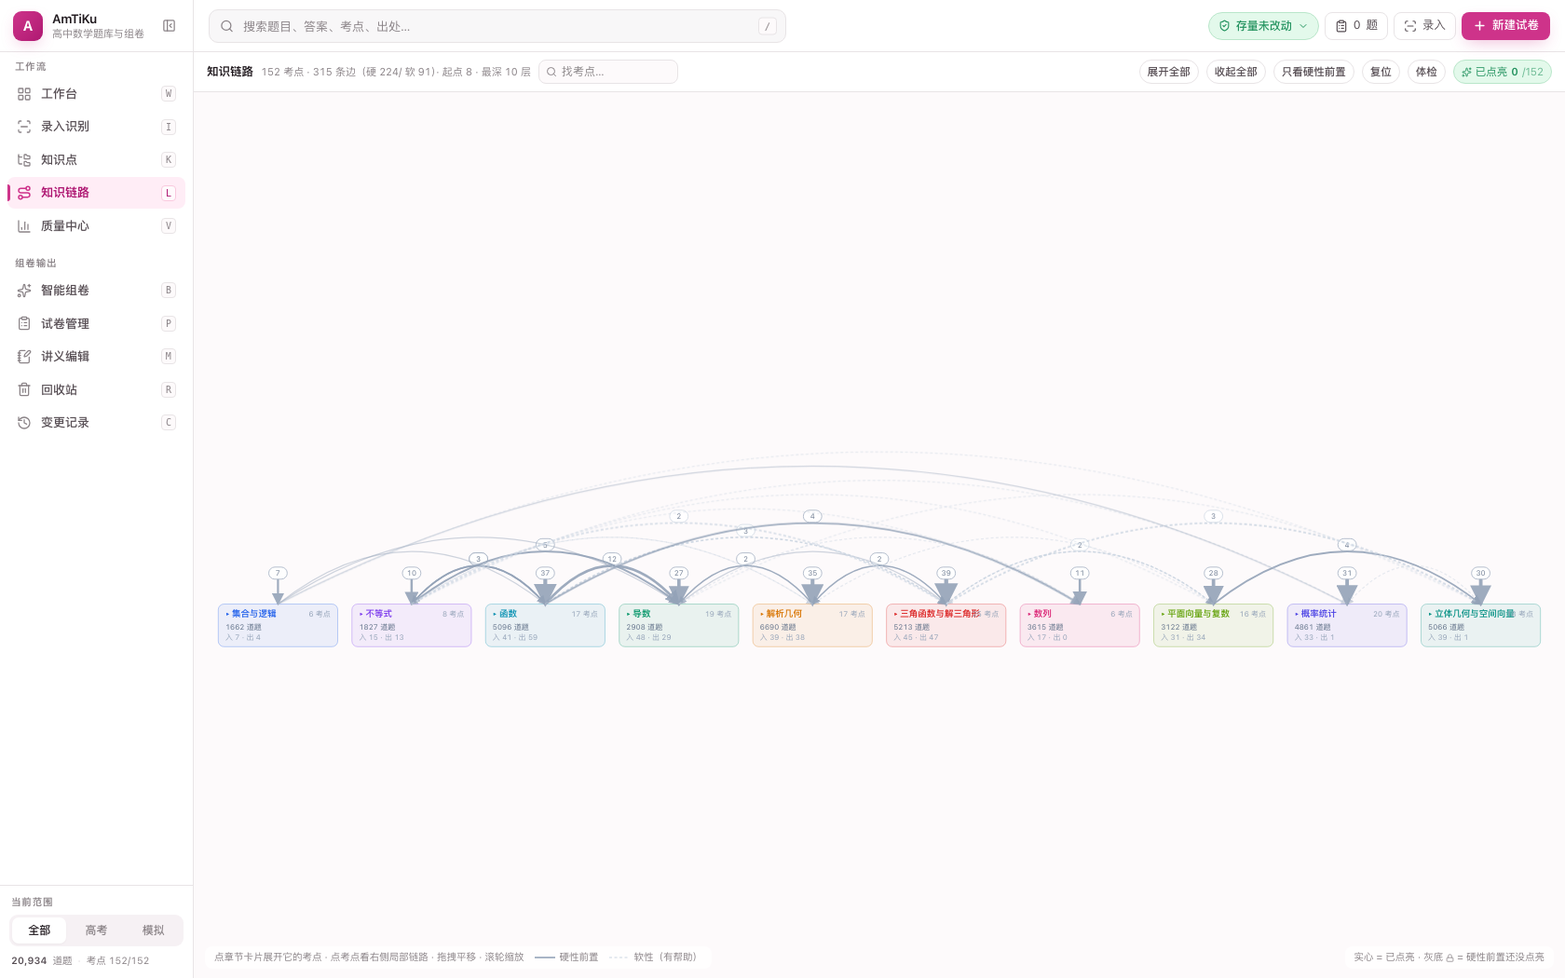
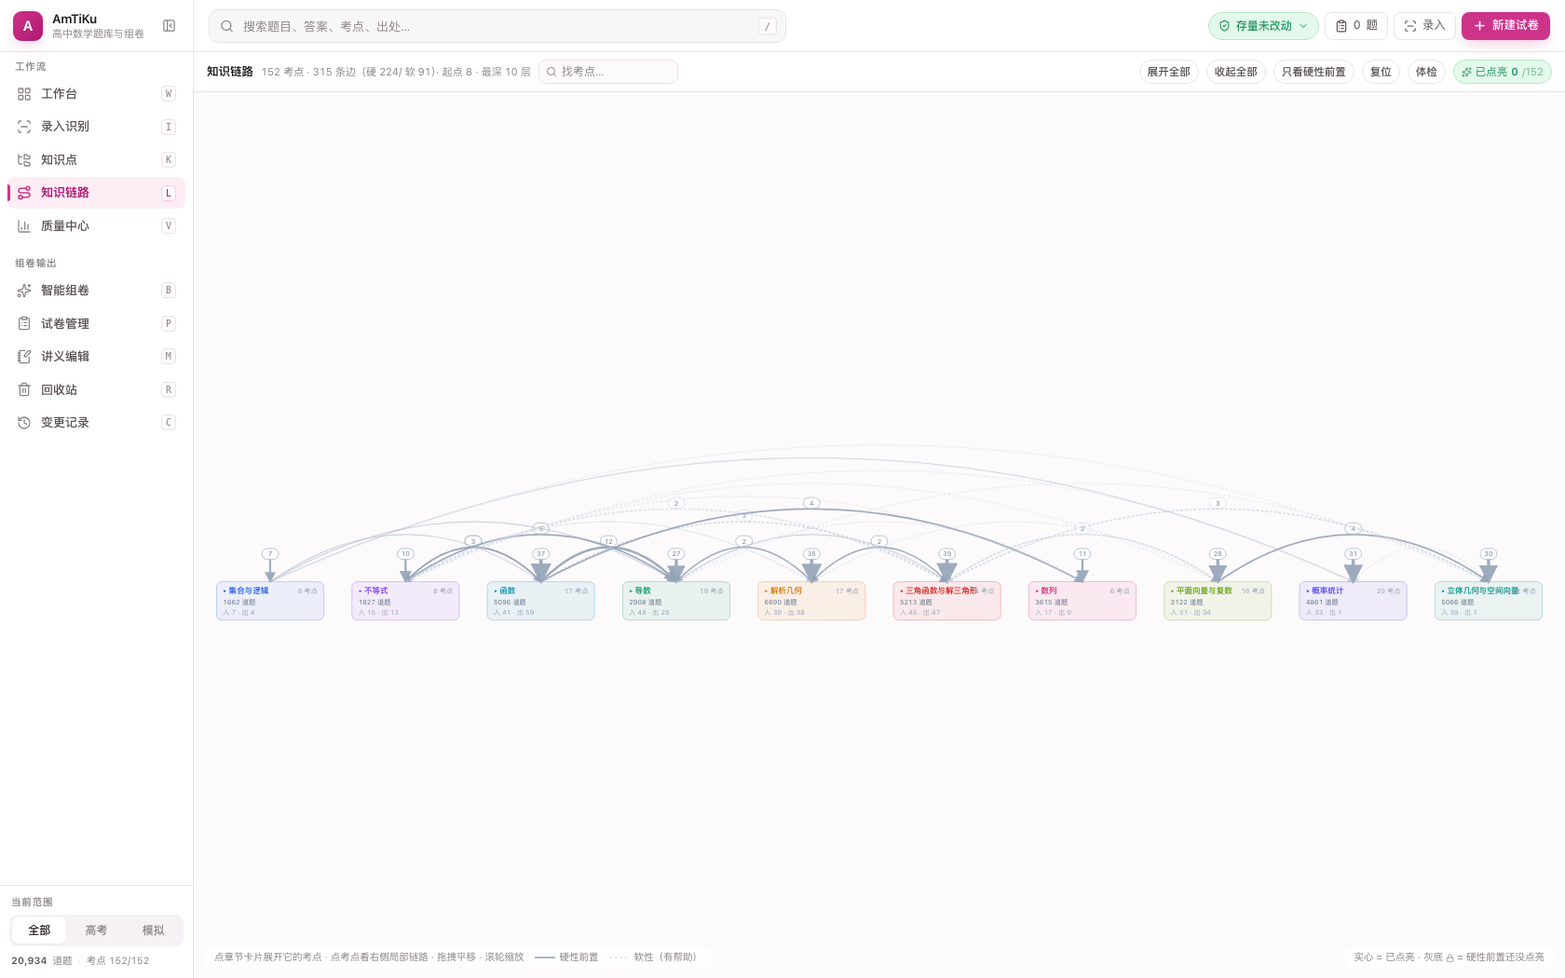
知识链路：补上分层图的三件标准件，穿模归零
用户看了"全部展开"的样子说「穿模了，继续调研下技术」。问题属实：我原来只做了分层图
最原始的一步（按深度分层 + 库内顺序排），1990 年代之后的三件标准件一件没做。
参考 Sugiyama 高效实现 / dagre / ELK Layered / d3-dag。

一、三件标准件
* 层内排序（交叉最小化）：**深度仍是主序**（"纵向=由浅入深"是这张图的读图约定，
  不能被优化掉），同一深度带内改按**邻居位置中位数**排，来回扫 6 轮。
  原来用库内顺序 = 等于不做交叉最小化。
* 长边走正交走廊 + 底部总线：跨 2 列以上的边不再斜着走——横到本列旁的走廊 →
  下到底部总线（5 条车道）→ 横过去 → 上来，圆角转弯。斜线会从中间各列的节点
  身上碾过去，这就是穿模。
* 边的分级显示：① 章节弧永远画（骨架）② 同章内部展开就画 ③ 跨章节点级边
  默认不画，悬停/选中时才把该考点那些单独画出来。315 条一起画怎么排都是毛线球。

二、顺带修掉一个真 bug
同列的边从节点**左边**起笔却向**右**鼓，弧线横穿自己的节点框。根因是把"安全侧"
判断（right = p2.col > p1.col）套到了同列情形上：同列时取左边，鼓包方向却仍是右边。

三、穿模现在可测量（occlude_check.mjs + probe.js）
沿每条边采样 24 点，数它扎进别的节点框/章节卡片的次数：
  目录 851 采样 → 0；全部展开（152 考点/292 条线）6716 采样 → 0；
  选中链路（306 条线）7038 采样 → 0；节点框互相重叠 0。

四、写探针踩的两个坑（都产生过假数据，记在文档里）
* getBBox() 是**局部坐标**（每个节点框都是 0,0,48,18），拿它比世界坐标路径点会得出
  "重叠 11476 处"（正好 C(152,2)）。必须过 getCTM() 换算到同一空间。
* 边从自己的节点起笔时起点正好落在框边界，`x > r.x` 判假 → 把源节点算成被扎。
差点据此去改本来没问题的走线。探针代码现在单独放 probe.js（同一转义坑踩了三次）。

验证：amti.py accept 四层全绿 · 接口 18/18 · 讲义 18/18 · tsc --noUnusedLocals +
build 通过 · browser_check.mjs 按当前设计重写后全过（目录 0 节点 → 展开 152 节点/
292 线 → 选 4.3.1 出局部链路与筛题 → 点亮入 localStorage → 只看硬性 312→236 →
体检 ✓ → 10 个卡片都在画布内 → 控制台零报错）。

Changed region(s): [[0.1238, 0.5181, 0.9905, 0.6705], [0.7429, 0.5181, 0.7738, 0.5486]]

diff --git a/web/src/app/Chain.tsx b/web/src/app/Chain.tsx
@@ -41,10 +41,15 @@ const TOPIC_COLORS = ['#2563eb', '#7c3aed', '#0891b2', '#059669', '#d97706',
  * 默认**只画 10 个章节卡片**，点开的章节才在它下面长出考点——这是「探索」的核心：
  * 152 个考点 + 315 条边一次全铺出来必然是毛线球（用户截图里那团就是），
  * 而一屏 10 个大节点永远清爽，关系靠「点开一层」逐级展开。 */
-const CHAP_W = 168, CHAP_W_OPEN = 186, GAP = 20, PAD = 24
-const ROW = 24, NODE_W = 48, NODE_H = 18, NODE_TOP = 92, HEAD = 50
-/** 章节卡片的高度；卡片排在下方，弧线往上画（弧图布局） */
+const CHAP_W = 168, CHAP_W_OPEN = 186, GAP = 44, PAD = 24
+/** 底部总线：跨多列的长边走它，而不是斜着从别的节点身上碾过去 */
+const BUS_GAP = 34
+const ROW = 24, NODE_W = 48, NODE_H = 18, HEAD = 50
+/** 章节卡片的高度；卡片排在一条基线上，**关系弧画在基线上方、展开的考点长在下方**。
+ *  早先把展开的列从 y=92 往下排、卡片却钉在 y=300，列直接穿过卡片（用户说的"穿模"）。 */
 const CARD_H = 66, BASELINE = 300
+/** 深度分层之间留一点空隙：同一深度是一"带"，带与带之间断开，深度才读得出来 */
+const BAND_GAP = 9
 
 type Pos = { x: number; y: number; col: number }
 type View = { k: number; tx: number; ty: number }
@@ -85,7 +90,7 @@ export function Chain({ onPickPoint }: { onPickPoint: (pid: string, title: strin
   /** 展开的章节。默认空 = 只看 10 个大节点。 */
   const [open, setOpen] = useState<Set<string>>(new Set())
 
-  const { chaps, pos, W, H, topicOf } = useMemo(() => {
+  const { chaps, pos, W, H, topicOf, busY } = useMemo(() => {
     const groups: { topic: string; color: string; nodes: GNode[] }[] = []
     for (const n of g?.nodes || []) {
       let c = groups.find((x) => x.topic === n.topic)
@@ -99,28 +104,73 @@ export function Chain({ onPickPoint }: { onPickPoint: (pid: string, title: strin
         .sort((a, b) => a.n.depth - b.n.depth || a.i - b.i).map((x) => x.n)
     }
     const maxRows = Math.max(0, ...groups.filter((c) => open.has(c.topic)).map((c) => c.nodes.length))
-    // 展开的章节要往下长，所以画布高度取「基线 + 最长的一列」和固定值里的较大者
-    const height = Math.max(BASELINE + CARD_H + 40, NODE_TOP + maxRows * ROW + 40)
+    const height = Math.max(BASELINE + CARD_H + 40,
+      BASELINE + CARD_H + 24 + maxRows * ROW + maxRows * BAND_GAP + BUS_GAP + 30)
     let x = PAD
     const chaps = groups.map((c) => {
       const isOpen = open.has(c.topic)
       const w = isOpen ? CHAP_W_OPEN : CHAP_W
       const o = { topic: c.topic, color: c.color, nodes: c.nodes, open: isOpen, x, w,
-        // 卡片统一排在一条基线上，弧线一律往上画 —— 横排节点 + 上方弧线
-        // 是「弧图」的标准形态；早先把卡片竖直居中、弧线高度按条数硬加，
-        // 结果弧线各自冲向天空、互相穿插成一团。
         y: BASELINE, questions: c.nodes.reduce((a, n) => a + n.n, 0) }
       x += w + GAP
       return o
     })
+
+    /* ── 层内排序：交叉最小化（Sugiyama 三件套里的第二件）──
+     *  规则：**深度仍是主序**（"纵向 = 由浅入深"是这张图的读图约定，不能被优化掉），
+     *  同一深度内的先后则用**邻居位置的中位数**决定，来回扫描几轮。
+     *  这一步盯的是「同一深度带里谁上谁下」——原来用知识点库顺序，
+     *  等于没做交叉最小化，边只能互相穿。
+     *  参考：Sugiyama 高效实现（Healy & Nikolov）/ dagre 的 ordering 阶段 / d3-dag 的 decross。 */
+    const idx = new Map<string, number>()
+    for (const c of chaps) for (const n of c.nodes) idx.set(n.id, chaps.indexOf(c))
+    const adj = new Map<string, string[]>()
+    for (const e of (g?.edges || [])) {
+      if (!adj.has(e.pre)) adj.set(e.pre, [])
+      if (!adj.has(e.post)) adj.set(e.post, [])
+      adj.get(e.pre)!.push(e.post)
+      adj.get(e.post)!.push(e.pre)
+    }
+    const rank = new Map<string, number>()          // 节点在它所在列里的序号
+    for (const c of chaps) c.nodes.forEach((n, i) => rank.set(n.id, i))
+    const medianOf = (id: string) => {
+      const ns = (adj.get(id) || []).filter((t) => (idx.get(t) ?? -1) !== idx.get(id))
+      if (!ns.length) return null
+      const v = ns.map((t) => rank.get(t) ?? 0).sort((a, b) => a - b)
+      const m = v.length >> 1
+      return v.length % 2 ? v[m] : (v[m - 1] + v[m]) / 2
+    }
+    for (let sweep = 0; sweep < 6; sweep++) {
+      for (const c of [...chaps].sort((a, b) => sweep % 2 ? b.x - a.x : a.x - b.x)) {
+        c.nodes = c.nodes.map((n, i) => ({ n, i,
+          k: [n.depth, medianOf(n.id) ?? Number.MAX_SAFE_INTEGER, i] as (number | string)[] }))
+          .sort((a, b) => (a.k[0] as number) - (b.k[0] as number)
+            || (a.k[1] as number) - (b.k[1] as number) || (a.i - b.i))
+          .map((o) => o.n)
+        c.nodes.forEach((n, i) => rank.set(n.id, i))
+      }
+    }
+
+    let maxBand = 0
+    for (const c of chaps) maxBand = Math.max(maxBand, new Set(c.nodes.map((n) => n.depth)).size)
     const pos = new Map<string, Pos>()
+    let lowest = 0
     chaps.forEach((c, ci) => {
       if (!c.open) return
-      c.nodes.forEach((n, ri) => pos.set(n.id, { x: c.x + NODE_W / 2 + 8, y: NODE_TOP + ri * ROW, col: ci }))
+      let lastDepth = -1, band = 0
+      c.nodes.forEach((n, ri) => {
+        if (n.depth !== lastDepth) { band += 1; lastDepth = n.depth }
+        const y = BASELINE + CARD_H + 24 + (ri + band) * ROW + band * BAND_GAP
+        lowest = Math.max(lowest, y)
+        pos.set(n.id, { x: c.x + NODE_W / 2 + 8, y, col: ci })
+      })
     })
+    // 底部总线的高度：所有展开列的最底端再往下一点。
+    // 长边全部走这条线，并按边序分 5 条车道错开（同一条线上会互相盖住）。
+    const busY = lowest + BUS_GAP
     const topicOf = new Map<string, string>()
     for (const n of g?.nodes || []) topicOf.set(n.id, n.topic)
-    return { chaps, pos, W: x - GAP + PAD, H: height, topicOf }
+    return { chaps, pos, W: x - GAP + PAD, H: height, topicOf, busY }
   }, [g, open])
 
   const chapOf = useMemo(() => new Map(chaps.map((c) => [c.topic, c])), [chaps])
@@ -131,39 +181,39 @@ export function Chain({ onPickPoint }: { onPickPoint: (pid: string, title: strin
     return hardOnly ? all.filter((e) => e.strength === 'hard') : all
   }, [g, hardOnly])
 
-  /** 关系按「两端是否展开」分三层：
-   *  ① 两端都收起 → **章节级聚合边**（一条弧 + 条数徽标）
-   *  ② 只有一端展开 → 细线连过去 + 卡片旁徽标（看得出"这一章有多少条通向那一章"）
-   *  ③ 两端都展开 → 节点级边（就是原来的画法）
-   *  这样无论展开到哪一层，屏幕上都不会出现一屏乱线。 */
-  const { agg, cross, nodeEdges } = useMemo(() => {
-    const aggM = new Map<string, { a: string; b: string; hard: number; soft: number }>()
-    const cross: { pre: string; post: string; strength: 'hard' | 'soft'; a: string; b: string }[] = []
+  /** 关系数据。渲染策略是**分级显示**（ELK 的 long-edge 策略同理）：
+   *  ① 章节弧：永远画——它是这张图的骨架，也是"这一章和那一章有几条关系"的答案；
+   *  ② 同一章内部的节点级边：展开就画（那是用户点开这一章想看的东西）；
+   *  ③ **跨章的节点级边：默认不画**。它们原来就是"斜着掠过 7 列"的元凶；
+   *     悬停/选中某个考点时，只把它自己的那些边单独画出来。
+   *  结果是：无论展开多少章，屏幕上的线永远是一小把，而不是 315 条。 */
+  const { pairAgg, nodeEdges, crossEdges } = useMemo(() => {
+    const m = new Map<string, { a: string; b: string; hard: number; soft: number }>()
     const nodeEdges: Edge[] = []
+    const crossEdges: (Edge & { a: string; b: string })[] = []
     for (const e of edges) {
       const ta = topicOf.get(e.pre) || '', tb = topicOf.get(e.post) || ''
       const oa = open.has(ta), ob = open.has(tb)
+      const k = ta + '>' + tb
+      const cur = m.get(k) || { a: ta, b: tb, hard: 0, soft: 0 }
+      cur[e.strength === 'hard' ? 'hard' : 'soft'] += 1
+      m.set(k, cur)
       if (oa && ob) nodeEdges.push(e)
-      else if (!oa && !ob) {
-        const k = ta + '>' + tb
-        const cur = aggM.get(k) || { a: ta, b: tb, hard: 0, soft: 0 }
-        cur[e.strength === 'hard' ? 'hard' : 'soft'] += 1
-        aggM.set(k, cur)
-      } else cross.push({ pre: e.pre, post: e.post, strength: e.strength, a: ta, b: tb })
+      else if (oa || ob) crossEdges.push({ ...e, a: ta, b: tb })
     }
-    return { agg: [...aggM.values()], cross, nodeEdges }
+    return { pairAgg: [...m.values()], nodeEdges, crossEdges }
   }, [edges, open, topicOf])
 
   /** 章节级的入/出条数：收起的卡片上直接写出来，不用点开就知道谁依赖谁 */
   const chapDeg = useMemo(() => {
     const m = new Map<string, { i: number; o: number }>()
-    for (const a of agg) {
+    for (const a of pairAgg) {
       const A = m.get(a.a) || { i: 0, o: 0 }, B = m.get(a.b) || { i: 0, o: 0 }
       A.o += a.hard + a.soft; B.i += a.hard + a.soft
       m.set(a.a, A); m.set(a.b, B)
     }
     return m
-  }, [agg])
+  }, [pairAgg])
 
   /** 选中考点的**整条链路**（全部先修 + 全部后续）。
    *  探索的关键：链路会穿过还没展开的章节，那些就画成高亮的聚合边——
@@ -192,6 +242,16 @@ export function Chain({ onPickPoint }: { onPickPoint: (pid: string, title: strin
     for (const id of [...up, ...down]) { const t = topicOf.get(id); if (t) topics.add(t) }
     return { up, down, upE, downE, topics }
   }, [sel, g, topicOf])
+
+  /** 要点名画出来的跨章边：悬停/选中的那一跳，以及选中考点的整条链路 */
+  const incident = useMemo(() => {
+    const s2 = new Set<string>()
+    if (chain) { for (const k of chain.upE) s2.add(k); for (const k of chain.downE) s2.add(k) }
+    const f = hover || sel
+    if (f) for (const e of edges) if (e.pre === f || e.post === f) s2.add(e.pre + '>' + e.post)
+    return s2
+  }, [chain, hover, sel, edges])
+
 
   const topicColor = useMemo(() => {
     const m = new Map<string, string>()
@@ -433,7 +493,7 @@ export function Chain({ onPickPoint }: { onPickPoint: (pid: string, title: strin
                   节点横排一行，关系画成上方的弧，**弧高按跨了几列递增**：
                   相邻章是小拱、首尾章是大拱，彼此嵌套而不打架。
                   早先按"条数"定弧高 → 所有弧都往天上冲、交叉成一团。 */}
-              {[...agg].sort((p1, p2) =>
+              {[...pairAgg].sort((p1, p2) =>
                 (chapIdx(p1.a) - chapIdx(p1.b)) ** 2 - (chapIdx(p2.a) - chapIdx(p2.b)) ** 2
                 || p1.a.localeCompare(p2.a)).map((a2) => {
                 const A = chapOf.get(a2.a), B = chapOf.get(a2.b)
@@ -469,12 +529,13 @@ export function Chain({ onPickPoint }: { onPickPoint: (pid: string, title: strin
               })}
 
               {/* ② 一端展开、一端收起：细线连过去。看得出"这一章的哪些考点通向那一章" */}
-              {cross.map((e, i) => {
+              {crossEdges.map((e, i) => {
+                if (!incident.has(e.pre + '>' + e.post)) return null
                 const p1 = pos.get(e.pre), p2 = pos.get(e.post)
                 const A = chapOf.get(e.a), B = chapOf.get(e.b)
                 if (!A || !B) return null
-                const from = p1 ? { x: p1.x + NODE_W / 2, y: p1.y } : { x: A.x + A.w, y: A.y + 30 }
-                const to = p2 ? { x: p2.x - NODE_W / 2, y: p2.y } : { x: B.x, y: B.y + 30 }
+                const from = p1 ? { x: p1.x + NODE_W / 2, y: p1.y } : { x: A.x + A.w / 2, y: A.y + 34 }
+                const to = p2 ? { x: p2.x - NODE_W / 2, y: p2.y } : { x: B.x + B.w / 2, y: B.y + 34 }
                 const lit = chain && (chain.upE.has(e.pre + '>' + e.post) || chain.downE.has(e.pre + '>' + e.post))
                 const hidden = false
                 return (
@@ -493,16 +554,42 @@ export function Chain({ onPickPoint }: { onPickPoint: (pid: string, title: strin
               {nodeEdges.map((e, i) => {
                 const p1 = pos.get(e.pre), p2 = pos.get(e.post)
                 if (!p1 || !p2) return null
+                // 同章内部：展开就给看。跨章：只有被点名（悬停/选中/链路）才画
+                const sameChap = p1.col === p2.col
+                if (!sameChap && !incident.has(e.pre + '>' + e.post)) return null
                 const lit = chain && (chain.upE.has(e.pre + '>' + e.post) || chain.downE.has(e.pre + '>' + e.post))
                 const hot = hover && near && near.has(e.pre) && near.has(e.post)
-                const x1 = p1.x + NODE_W / 2, x2 = p2.x - NODE_W / 2
+                const right = p2.col >= p1.col
+                const sameCol = p2.col === p1.col
+                // 同列的边**一律从左侧出、往左鼓**：左侧是列间空隙（GAP 44），
+                // 右侧是标签文字区。早先这里漏了同列的情形——从左边起笔却往右鼓，
+                // 弧线等于横穿自己的节点框（探针把起始点判在框边界上才发现）。
+                const x1 = sameCol ? p1.x - NODE_W / 2 : p1.x + (right ? NODE_W / 2 : -NODE_W / 2)
+                const x2 = sameCol ? p2.x - NODE_W / 2 : p2.x + (right ? -NODE_W / 2 : NODE_W / 2)
                 let d: string
-                if (p2.col === p1.col) {
-                  const r = 16 + Math.abs(p2.y - p1.y) * 0.25
+                const A2 = chaps[p1.col], B2 = chaps[p2.col]
+                const span = Math.abs(p2.col - p1.col)
+                if (sameCol) {
+                  const r = -(14 + Math.abs(p2.y - p1.y) * 0.22)     // 负号 = 往左鼓
                   d = `M ${x1} ${p1.y} C ${x1 + r} ${p1.y}, ${x1 + r} ${p2.y}, ${x1} ${p2.y}`
-                } else {
+                } else if (span === 1) {
+                  // 相邻两列：直接走，跨不过任何别的列
                   const dx = Math.max(18, (x2 - x1) * 0.45)
                   d = `M ${x1} ${p1.y} C ${x1 + dx} ${p1.y}, ${x2 - dx} ${p2.y}, ${x2} ${p2.y}`
+                } else {
+                  /* **跨两列以上：走底部总线**（正交走线 + 圆角）。
+                     直线/斜贝塞尔会从中间那些列的节点身上碾过去 —— 那就是"穿模"。
+                     走廊取本列右侧的间隙，竖直段因此也不压同列的其它节点。 */
+                  const right = p2.col > p1.col
+                  const gA = right ? A2.x + A2.w + GAP * 0.4 : A2.x - GAP * 0.4
+                  const gB = right ? B2.x - GAP * 0.4 : B2.x + B2.w + GAP * 0.4
+                  const lane = busY + (i % 5) * 7
+                  const r0 = 9
+                  d = `M ${x1} ${p1.y} L ${gA - r0} ${p1.y} Q ${gA} ${p1.y} ${gA} ${p1.y + r0}` +
+                    ` L ${gA} ${lane - r0} Q ${gA} ${lane} ${gA + r0} ${lane}` +
+                    ` L ${gB - r0} ${lane} Q ${gB} ${lane} ${gB} ${lane - r0}` +
+                    ` L ${gB} ${p2.y + r0} Q ${gB} ${p2.y} ${gB - r0} ${p2.y}` +
+                    ` L ${x2} ${p2.y}`
                 }
                 return (
                   <path key={i} d={d} fill="none" className="transition-opacity duration-200"

diff --git a/CHANGELOG.md b/CHANGELOG.md
@@ -5,6 +5,53 @@
 
 ---
 
+## v1.7.5 · 知识链路：分层图画法升级（交叉最小化 / 正交走廊 / 分级显示），穿模归零（2026-09-23）
+
+用户看了一眼"全部展开"的样子：**「穿模了，继续调研下技术，github 上的新技术学习学习」**。
+问题是真的：我原来只做了分层图最原始的一步（按深度分层 + 按库内顺序排），
+1990 年代之后的三件标准件一件没做。
+
+### 补上的三件（参考 Sugiyama 高效实现 / dagre / ELK Layered / d3-dag）
+
+| 件 | 做法 | 为什么 |
+|---|---|---|
+| **层内排序（交叉最小化）** | **深度仍是主序**（"纵向 = 由浅入深"是这张图的读图约定，不能被优化掉），同一深度带内按**邻居位置中位数**排，来回扫 6 轮 | 原来用库内顺序，等于不做交叉最小化 |
+| **长边走正交走廊 + 底部总线** | 跨 2 列以上的边不再斜着走：横到本列旁的走廊 → 下到底部总线（分 5 条车道）→ 横过去 → 上来，圆角转弯 | 斜线会从中间各列的节点身上碾过去 —— 这就是穿模 |
+| **边的分级显示** | ① 章节弧永远画（骨架）② 同章内部展开就画 ③ **跨章节点级边默认不画**，悬停/选中时才单独画出来 | 315 条一起画，怎么排都是毛线球 |
+
+顺带修掉一个真 bug：**同列的边从节点左边起笔却向右鼓**，弧线横穿自己的节点框。
+根因是"安全侧"判断（`right = p2.col > p1.col`）套到了同列情形上——同列时它取左边、
+鼓包方向却还是右边。探针把起始点判在框边界上，才把它揪出来。
+
+### 穿模现在是可测量的（不靠肉眼）
+
+`/tmp/chain/occlude_check.mjs`：沿每条边采样 24 点，数它扎进别的节点框/章节卡片的次数。
+
+| 状态 | 采样点 | 扎进节点 | 节点框互相重叠 |
+|---|---|---|---|
+| 目录 | 851 | **0** | 0 |
+| 全部展开（152 考点 / 292 条线） | 6716 | **0** | 0 |
+| 选中链路（306 条线） | 7038 | **0** | 0 |
+
+### 写探针踩的两个坑（都产生了假数据）
+
+1. 用 `getBBox()` 取节点框 —— 那是**局部坐标**，每个框都是 `(0,0,48,18)`，
+   于是报"重叠 11476 处"（正好 C(152,2)），"穿模 0"也不可信。必须过 `getCTM()` 换算。
+2. 边从自己的节点上起笔时，起点**正好落在框边界**上，`x > r.x` 判为假 →
+   把源节点算成"被扎"，又是一批假警报。
+   差点据此去改本来没问题的走线——所以现在探针的代码单独放在 `probe.js`，
+   与测试脚本分开，避免再被模板字符串转义坑（同一个坑踩了三次）。
+
+### 验证
+
+`amti.py accept` 四层全绿 · 接口 18/18 · 讲义 18/18 · tsc + build 通过 ·
+功能实测（按当前设计重写了 `browser_check.mjs`，旧脚本等的是"一进页面就 152 个节点"）：
+目录 0 考点节点 → 展开全部 152 节点/292 条线 → 选 4.3.1 出局部链路与筛题入口 →
+点亮写进 localStorage → 只看硬性前置 312→236 条线 → 体检「✓ 结构没问题」→
+10 个章节卡片全在画布内 → 控制台零报错。
+
+---
+
 ## v1.7.4 · 知识链路改成探索式：默认 10 个大章节，逐层展开（2026-09-23）
 
 用户看完一屏 152 个考点 + 315 条边的样子，一句话点中要害：

diff --git a/docs/功能介绍.md b/docs/功能介绍.md
@@ -48,7 +48,9 @@
 
 ## 3. 知识链路
 
-![知识链路](screenshots/06-chain.png)
+| 目录（默认） | 选中后整条链路高亮 |
+|---|---|
+| ![知识链路·目录](screenshots/06-chain.png) | ![知识链路·链路](screenshots/07-chain-trace.png) |
 
 考点库本身是一棵树（章 → 节 → 考点），答不出**「我这个考点不会，该先补什么」**。
 「知识链路」补的就是考点之间的关系：**315 条先修边**，每条都写明理由。
@@ -60,8 +62,8 @@
 2. **点一个章节** → 它的考点在下面按由浅入深排开；此时别的章节还是卡片，
    跨出去的边收成淡淡的连线，一眼看出「这一章有多少条通向那一章」。
 3. **点一个考点** → 右侧给出它的**局部链路**（左＝直接先修、右＝直接后续，可点着跳），
-   同时图上把它的**整条先修链**高亮出来（青＝上游、粉＝下游）——链路会穿到**还没展开**的章节上，
-   顺着那条亮线点进去，就是一步一步把这条链走出来。
+   同时图上把它的**整条先修链**高亮出来（青＝上游、粉＝下游）。**跨章的长边一律走
+   正交走廊 + 底部总线**（不斜穿节点），所以整条链一路顺下来能看清拐了几个弯。
 4. **「展开整条链路（N 章）」**：把这条链经过的章节一次全展开，整条路径铺在眼前。
 
 其余：

diff --git a/README.md b/README.md
@@ -31,9 +31,9 @@
 |---|---|
 | ![章节与考点](docs/screenshots/02-topics.png) | ![组卷导出](docs/screenshots/05-export.png) |
 
-| 知识链路（考点之间的先修关系） |
-|---|
-| ![知识链路](docs/screenshots/06-chain.png) |
+| 知识链路 · 目录（默认 10 个大章节） | 知识链路 · 选中后整条链路高亮 |
+|---|---|
+| ![知识链路·目录](docs/screenshots/06-chain.png) | ![知识链路·链路](docs/screenshots/07-chain-trace.png) |
 
 * **左栏**是**全局导航**：工作流（工作台 / 录入 / 知识点 / 知识链路 / 质量中心）+
   组卷输出（智能组卷 / 试卷管理 / 讲义编辑 / 回收站 / 变更记录），每项都挂一个单键快捷键
